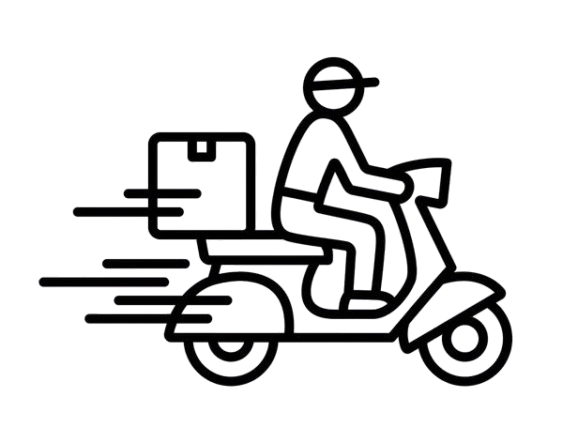
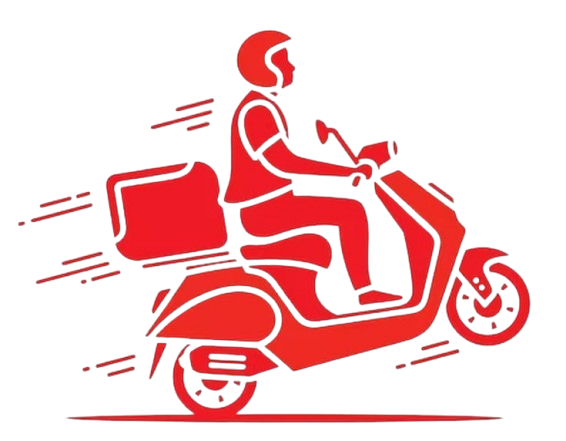
testimoni premium responsive

diff --git a/src/components/Footer.jsx b/src/components/Footer.jsx
@@ -10,16 +10,6 @@ import deliveryIcon from "../assets/SiapAntar.png";
 export default function Footer() {
   return (
     <footer className="footer">
-      <h1
-        style={{
-          background: "lime",
-          color: "black",
-          fontSize: "70px",
-          textAlign: "center",
-        }}
-      >
-        TEST FOOTER BARU
-      </h1>
       <div className="footer-container">
         {/* ================= LEFT ================= */}
 